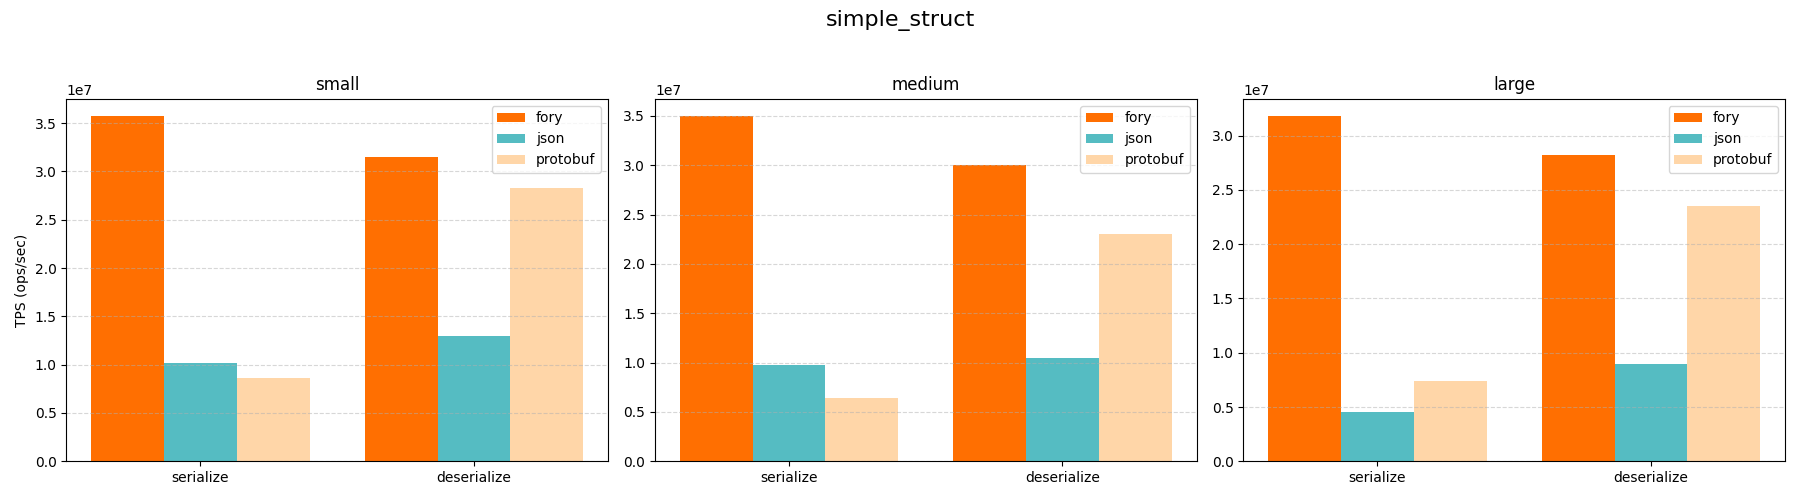
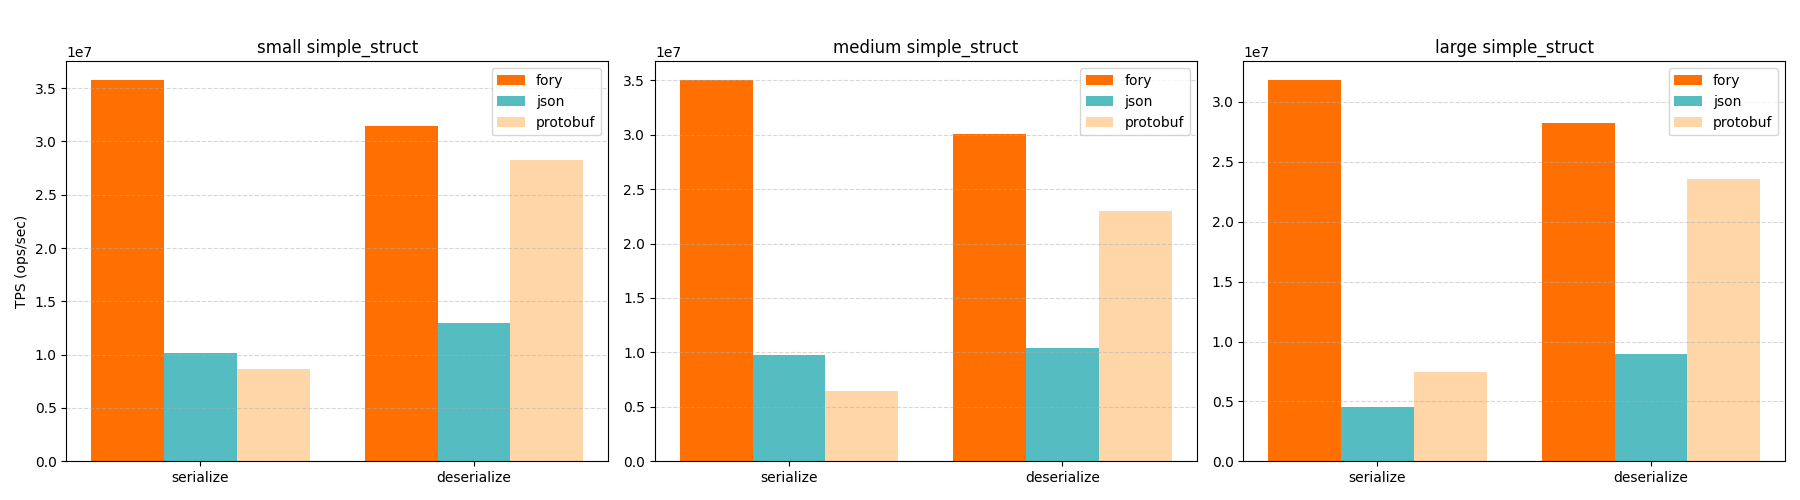
update script

diff --git a/rust/benches/benchmark_report.py b/rust/benches/benchmark_report.py
@@ -2,33 +2,46 @@ import os
 import re
 import platform
 import psutil
+import argparse
 import matplotlib.pyplot as plt
 import numpy as np
 from collections import defaultdict
 from datetime import datetime
 
-# === Colors specified ===
+# === Colors ===
 FORY_COLOR = "#FF6f01"  # Orange for Fory
 JSON_COLOR = "#55BCC2"  # Teal for JSON
 PROTOBUF_COLOR = (1, 0.84, 0.66)  # Light gold for Protobuf
 
-log_file = "cargo_bench.log"
-
+# === Regex to extract benchmark results ===
 bench_re = re.compile(
     r"Benchmarking\s+([\w_]+)/([\w]+)_(serialize|deserialize)/(\w+).*?time:\s+\[([\d\.]+)\s*([µ\w]+)",
     re.DOTALL,
 )
-
 UNIT_TO_SEC = {"ns": 1e-9, "µs": 1e-6, "us": 1e-6, "ms": 1e-3, "s": 1.0}
 
-# data[datatype][size][operation][library]
+# === Parse arguments ===
+parser = argparse.ArgumentParser(description="Plot Cargo Bench stats and generate Markdown report")
+parser.add_argument("--log-file", default="cargo_bench.log", help="Benchmark log file")
+parser.add_argument("--output-dir", default="", help="Output directory for plots and report")
+parser.add_argument("--plot-prefix", default="", help="Image path prefix in Markdown report")
+args = parser.parse_args()
+
+# === Determine output directory ===
+if args.output_dir.strip():
+    output_dir = args.output_dir
+else:
+    output_dir = datetime.now().strftime("%Y_%m_%d_%H_%M_%S")
+
+os.makedirs(output_dir, exist_ok=True)
+
+# === Data structure ===
 data = defaultdict(lambda: defaultdict(lambda: defaultdict(dict)))
 
-# Read benchmark log
-with open(log_file, "r", encoding="utf-8") as f:
+# === Read and parse benchmark log ===
+with open(args.log_file, "r", encoding="utf-8") as f:
     content = f.read()
 
-# Parse log
 for match in bench_re.finditer(content):
     struct, lib, op, size, time_val, unit = match.groups()
     try:
@@ -42,23 +55,15 @@ for match in bench_re.finditer(content):
     tps = 1.0 / sec
     data[struct][size][op][lib] = tps
 
+# === Sizes and operations ===
 sizes = ["small", "medium", "large"]
 ops = ["serialize", "deserialize"]
 
-output_dir = datetime.now().strftime("%Y_%m_%d_%H_%M_%S")
-os.makedirs(output_dir, exist_ok=True)
-
-serialize_rows = []
-deserialize_rows = []
-plot_images = []
-
-# ------------------------------
-# Gather hardware & OS info
-# ------------------------------
+# === Get system info ===
 def get_system_info():
     try:
         info = {
-            "OS": f"{platform.system()} {platform.release()} ({platform.version()})",
+            "OS": f"{platform.system()} {platform.release()}",
             "Machine": platform.machine(),
             "Processor": platform.processor() or "Unknown",
             "CPU Cores (Physical)": psutil.cpu_count(logical=False),
@@ -71,84 +76,74 @@ def get_system_info():
 
 system_info = get_system_info()
 
-# ------------------------------
-# Create plots per datatype
-# ------------------------------
-for struct in sorted(data.keys()):
-    fig, axes = plt.subplots(1, 3, figsize=(18, 5), sharey=False)
-    fig.suptitle(f"{struct}", fontsize=16)
+serialize_rows = []
+deserialize_rows = []
+plot_images = []
 
-    for idx, size in enumerate(sizes):
-        ax = axes[idx]
-        if size not in data[struct]:
-            ax.set_title(f"{size} - No Data")
-            ax.axis("off")
-            continue
+# === Plotting function ===
+def plot_datatype(ax, struct, size):
+    if size not in data[struct]:
+        ax.set_title(f"{size} {struct} - No Data")
+        ax.axis("off")
+        return
+    ops_present = [op for op in ops if op in data[struct][size]]
+    libs = sorted(
+        {lib for op in ops_present for lib in data[struct][size][op].keys()}
+    )
+    lib_order = [lib for lib in ["fory", "json", "protobuf"] if lib in libs] + [
+        lib for lib in libs if lib not in ["fory", "json", "protobuf"]
+    ]
+    x = np.arange(len(ops_present))
+    width = 0.8 / len(lib_order)
+    for i, lib in enumerate(lib_order):
+        color = None
+        if lib == "fory":
+            color = FORY_COLOR
+        elif lib == "json":
+            color = JSON_COLOR
+        elif lib == "protobuf":
+            color = PROTOBUF_COLOR
+        tps_vals = [data[struct][size][op].get(lib, 0) for op in ops_present]
+        ax.bar(x + i * width, tps_vals, width, label=lib, color=color)
+    ax.set_title(f"{size} {struct}")
+    ax.set_xticks(x + width * (len(lib_order) - 1) / 2)
+    ax.set_xticklabels(ops_present)
+    ax.grid(True, axis="y", linestyle="--", alpha=0.5)
+    ax.legend()
+    if size == "small":
+        ax.set_ylabel("TPS (ops/sec)")
 
-        ops_present = [op for op in ops if op in data[struct][size]]
-        libs = sorted(
-            {lib for op in ops_present for lib in data[struct][size][op].keys()}
+    # For Markdown tables
+    for op in ops_present:
+        f_tps = data[struct][size][op].get("fory", 0)
+        j_tps = data[struct][size][op].get("json", 0)
+        p_tps = data[struct][size][op].get("protobuf", 0)
+        fastest_lib, fastest_val = max(
+            [("fory", f_tps), ("json", j_tps), ("protobuf", p_tps)],
+            key=lambda kv: kv[1]
         )
+        row = (struct, size, op, f_tps, j_tps, p_tps, fastest_lib, fastest_val)
+        if op == "serialize":
+            serialize_rows.append(row)
+        else:
+            deserialize_rows.append(row)
 
-        lib_order = [lib for lib in ["fory", "json", "protobuf"] if lib in libs] + [
-            lib for lib in libs if lib not in ["fory", "json", "protobuf"]
-        ]
-
-        x = np.arange(len(ops_present))
-        width = 0.8 / len(lib_order)
-
-        for i, lib in enumerate(lib_order):
-            if lib == "fory":
-                color = FORY_COLOR
-            elif lib == "json":
-                color = JSON_COLOR
-            elif lib == "protobuf":
-                color = PROTOBUF_COLOR
-            else:
-                color = None
-            tps_vals = [data[struct][size][op].get(lib, 0) for op in ops_present]
-            ax.bar(x + i * width, tps_vals, width, label=lib, color=color)
-
-        ax.set_title(f"{size}")
-        ax.set_xticks(x + width * (len(lib_order) - 1) / 2)
-        ax.set_xticklabels(ops_present)
-        ax.grid(True, axis="y", linestyle="--", alpha=0.5)
-        if idx == 0:
-            ax.set_ylabel("TPS (ops/sec)")
-
-        for op in ops_present:
-            f_tps = data[struct][size][op].get("fory", 0)
-            j_tps = data[struct][size][op].get("json", 0)
-            p_tps = data[struct][size][op].get("protobuf", 0)
-
-            fastest_lib, fastest_val = max(
-                [("fory", f_tps), ("json", j_tps), ("protobuf", p_tps)],
-                key=lambda kv: kv[1]
-            )
-
-            row = (struct, size, op, f_tps, j_tps, p_tps, fastest_lib, fastest_val)
-            if op == "serialize":
-                serialize_rows.append(row)
-            else:
-                deserialize_rows.append(row)
-
-    # Add legends
-    for ax in axes:
-        ax.legend()
-
-    plt.tight_layout(rect=[0, 0, 1, 0.95])
+# === Main plotting loop ===
+for struct in sorted(data.keys()):
+    fig, axes = plt.subplots(1, 3, figsize=(18, 5), sharey=False)  # No suptitle
+    for si, size in enumerate(sizes):
+        plot_datatype(axes[si], struct, size)
+    fig.tight_layout(rect=[0, 0, 1, 0.95])
     plot_path = os.path.join(output_dir, f"{struct}.png")
     plt.savefig(plot_path)
     plot_images.append((struct, plot_path))
     plt.close()
 
-# Sort
+# === Sort tables ===
 serialize_rows.sort(key=lambda r: r[7], reverse=True)
 deserialize_rows.sort(key=lambda r: r[7], reverse=True)
 
-# ------------------------------
-# Build Markdown report
-# ------------------------------
+# === Markdown report ===
 md_report = [
     "## Performance Comparison Report\n",
     f"_Generated on {datetime.now().strftime('%Y-%m-%d %H:%M:%S')}_\n",
@@ -156,15 +151,15 @@ md_report = [
     "| Key | Value |\n",
     "|-----|-------|\n"
 ]
-
-for key, val in system_info.items():
-    md_report.append(f"| {key} | {val} |\n")
+for k, v in system_info.items():
+    md_report.append(f"| {k} | {v} |\n")
 
 md_report.append("\n### Benchmark Plots\n")
-for struct, img_path in plot_images:
-    rel_path = os.path.basename(img_path)
+for struct, img in plot_images:
+    img_filename = os.path.basename(img)
+    img_path_report = args.plot_prefix + img_filename
     md_report.append(f"\n**{struct}**\n\n")
-    md_report.append(f"![{struct}]({rel_path})\n")
+    md_report.append(f'<img src="{img_path_report}" width="70%">\n')
 
 def table_section(title, rows):
     md = [f"\n### {title}\n"]
@@ -179,7 +174,7 @@ def table_section(title, rows):
 md_report.extend(table_section("Serialize Results (sorted by fastest TPS)", serialize_rows))
 md_report.extend(table_section("Deserialize Results (sorted by fastest TPS)", deserialize_rows))
 
-# Save Markdown
+# === Save Markdown ===
 report_path = os.path.join(output_dir, "performance_report.md")
 with open(report_path, "w", encoding="utf-8") as f:
     f.writelines(md_report)

diff --git a/rust/benches/README.md b/rust/benches/README.md
@@ -1,6 +1,6 @@
 ## Performance Comparison Report
 
-_Generated on 2025-10-26 17:55:00_
+_Generated on 2025-10-26 18:20:19_
 
 How to generate performance report:
 
@@ -11,44 +11,44 @@ python benchmark_plot.py
 
 ### Hardware & OS Info
 
-| Key                  | Value                                                                                                                  |
-| -------------------- | ---------------------------------------------------------------------------------------------------------------------- |
-| OS                   | Darwin 24.5.0 (Darwin Kernel Version 24.5.0: Tue Apr 22 19:53:27 PDT 2025; root:xnu-11417.121.6~2/RELEASE_ARM64_T6041) |
-| Machine              | arm64                                                                                                                  |
-| Processor            | arm                                                                                                                    |
-| CPU Cores (Physical) | 12                                                                                                                     |
-| CPU Cores (Logical)  | 12                                                                                                                     |
-| Total RAM (GB)       | 48.0                                                                                                                   |
+| Key                  | Value         |
+| -------------------- | ------------- |
+| OS                   | Darwin 24.5.0 |
+| Machine              | arm64         |
+| Processor            | arm           |
+| CPU Cores (Physical) | 12            |
+| CPU Cores (Logical)  | 12            |
+| Total RAM (GB)       | 48.0          |
 
 ### Benchmark Plots
 
 **company**
 
-![company](../../docs/benchmarks/rust/company.png)
+<img src="../../docs/benchmarks/rust/company.png" width="70%">
 
 **ecommerce_data**
 
-![ecommerce_data](../../docs/benchmarks/rust/ecommerce_data.png)
+<img src="../../docs/benchmarks/rust/ecommerce_data.png" width="70%">
 
 **person**
 
-![person](../../docs/benchmarks/rust/person.png)
+<img src="../../docs/benchmarks/rust/person.png" width="70%">
 
 **simple_list**
 
-![simple_list](../../docs/benchmarks/rust/simple_list.png)
+<img src="../../docs/benchmarks/rust/simple_list.png" width="70%">
 
 **simple_map**
 
-![simple_map](../../docs/benchmarks/rust/simple_map.png)
+<img src="../../docs/benchmarks/rust/simple_map.png" width="70%">
 
 **simple_struct**
 
-![simple_struct](../../docs/benchmarks/rust/simple_struct.png)
+<img src="../../docs/benchmarks/rust/simple_struct.png" width="70%">
 
 **system_data**
 
-![system_data](../../docs/benchmarks/rust/system_data.png)
+<img src="../../docs/benchmarks/rust/system_data.png" width="70%">
 
 ### Serialize Results (sorted by fastest TPS)
 

diff --git a/docs/benchmarks/rust/README.md b/docs/benchmarks/rust/README.md
@@ -1,47 +1,47 @@
-## Performance Comparison Report
+# Performance Comparison Report
 
-_Generated on 2025-10-26 17:55:00_
+_Generated on 2025-10-26 18:19:37_
 
 ### Hardware & OS Info
 
-| Key                  | Value                                                                                                                  |
-| -------------------- | ---------------------------------------------------------------------------------------------------------------------- |
-| OS                   | Darwin 24.5.0 (Darwin Kernel Version 24.5.0: Tue Apr 22 19:53:27 PDT 2025; root:xnu-11417.121.6~2/RELEASE_ARM64_T6041) |
-| Machine              | arm64                                                                                                                  |
-| Processor            | arm                                                                                                                    |
-| CPU Cores (Physical) | 12                                                                                                                     |
-| CPU Cores (Logical)  | 12                                                                                                                     |
-| Total RAM (GB)       | 48.0                                                                                                                   |
+| Key                  | Value         |
+| -------------------- | ------------- |
+| OS                   | Darwin 24.5.0 |
+| Machine              | arm64         |
+| Processor            | arm           |
+| CPU Cores (Physical) | 12            |
+| CPU Cores (Logical)  | 12            |
+| Total RAM (GB)       | 48.0          |
 
 ### Benchmark Plots
 
 **company**
 
-![company](company.png)
+<img src="company.png" width="70%">
 
 **ecommerce_data**
 
-![ecommerce_data](ecommerce_data.png)
+<img src="ecommerce_data.png" width="70%">
 
 **person**
 
-![person](person.png)
+<img src="person.png" width="70%">
 
 **simple_list**
 
-![simple_list](simple_list.png)
+<img src="simple_list.png" width="70%">
 
 **simple_map**
 
-![simple_map](simple_map.png)
+<img src="simple_map.png" width="70%">
 
 **simple_struct**
 
-![simple_struct](simple_struct.png)
+<img src="simple_struct.png" width="70%">
 
 **system_data**
 
-![system_data](system_data.png)
+<img src="system_data.png" width="70%">
 
 ### Serialize Results (sorted by fastest TPS)
 
